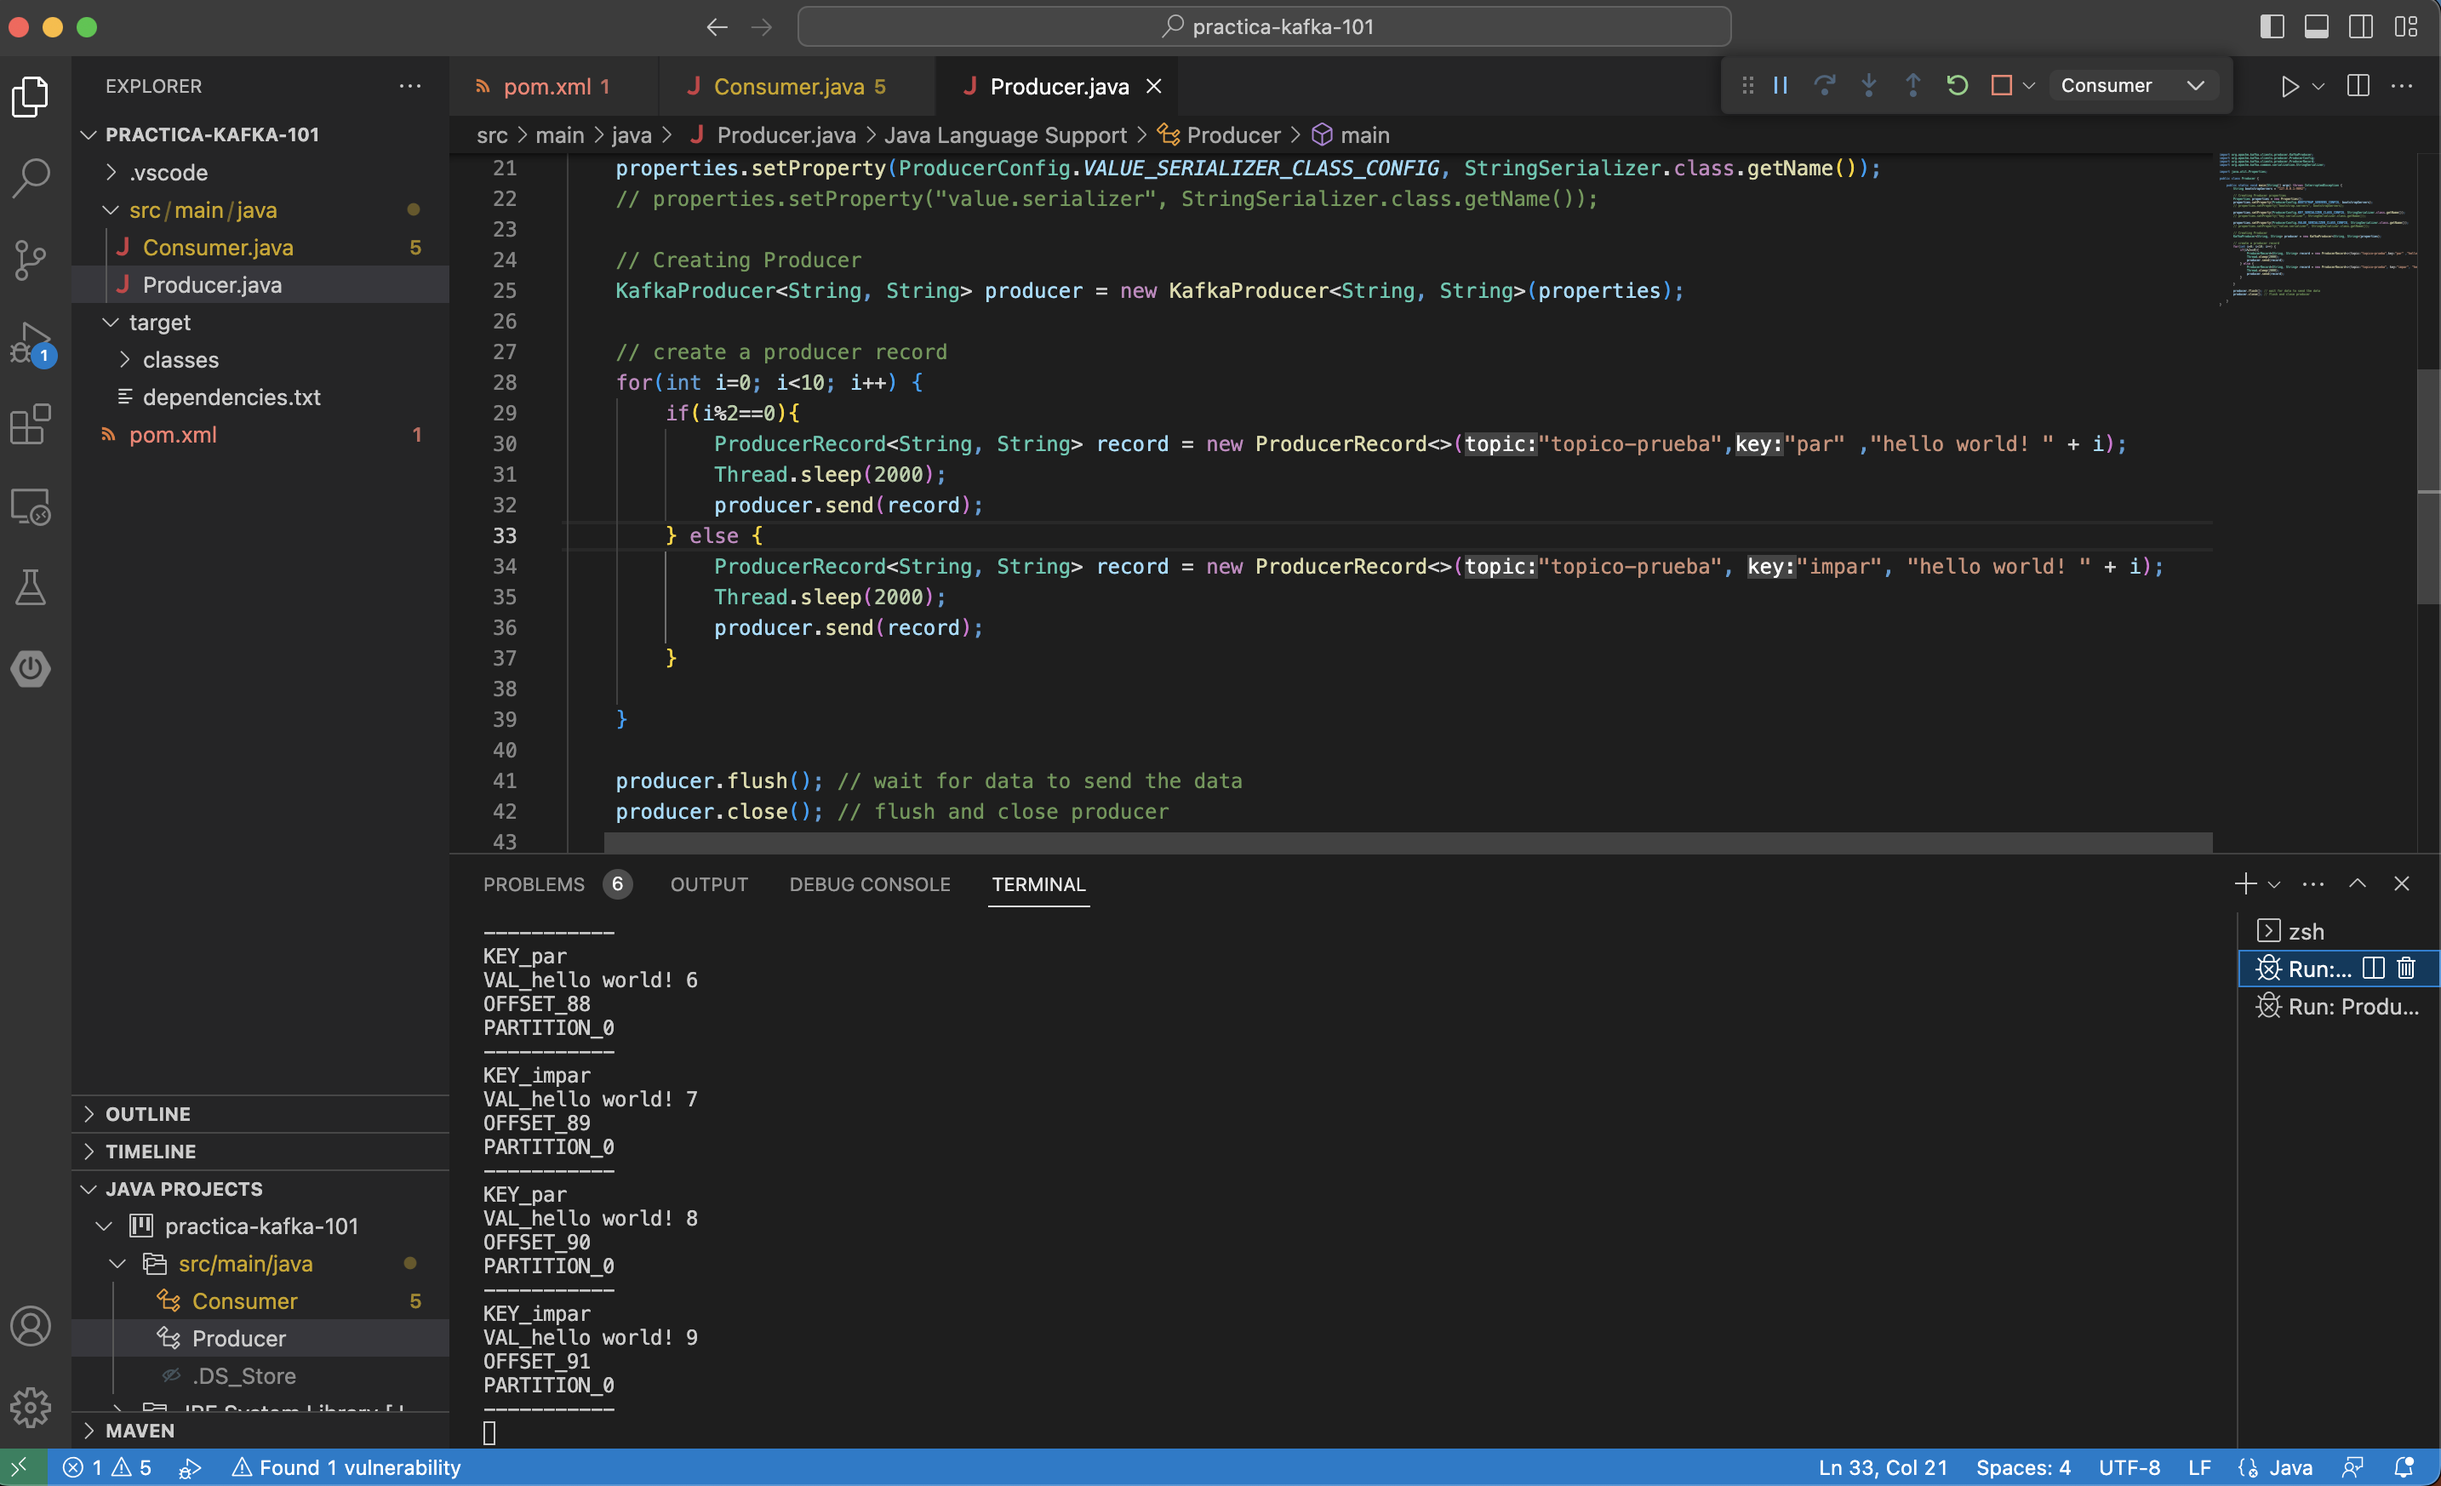
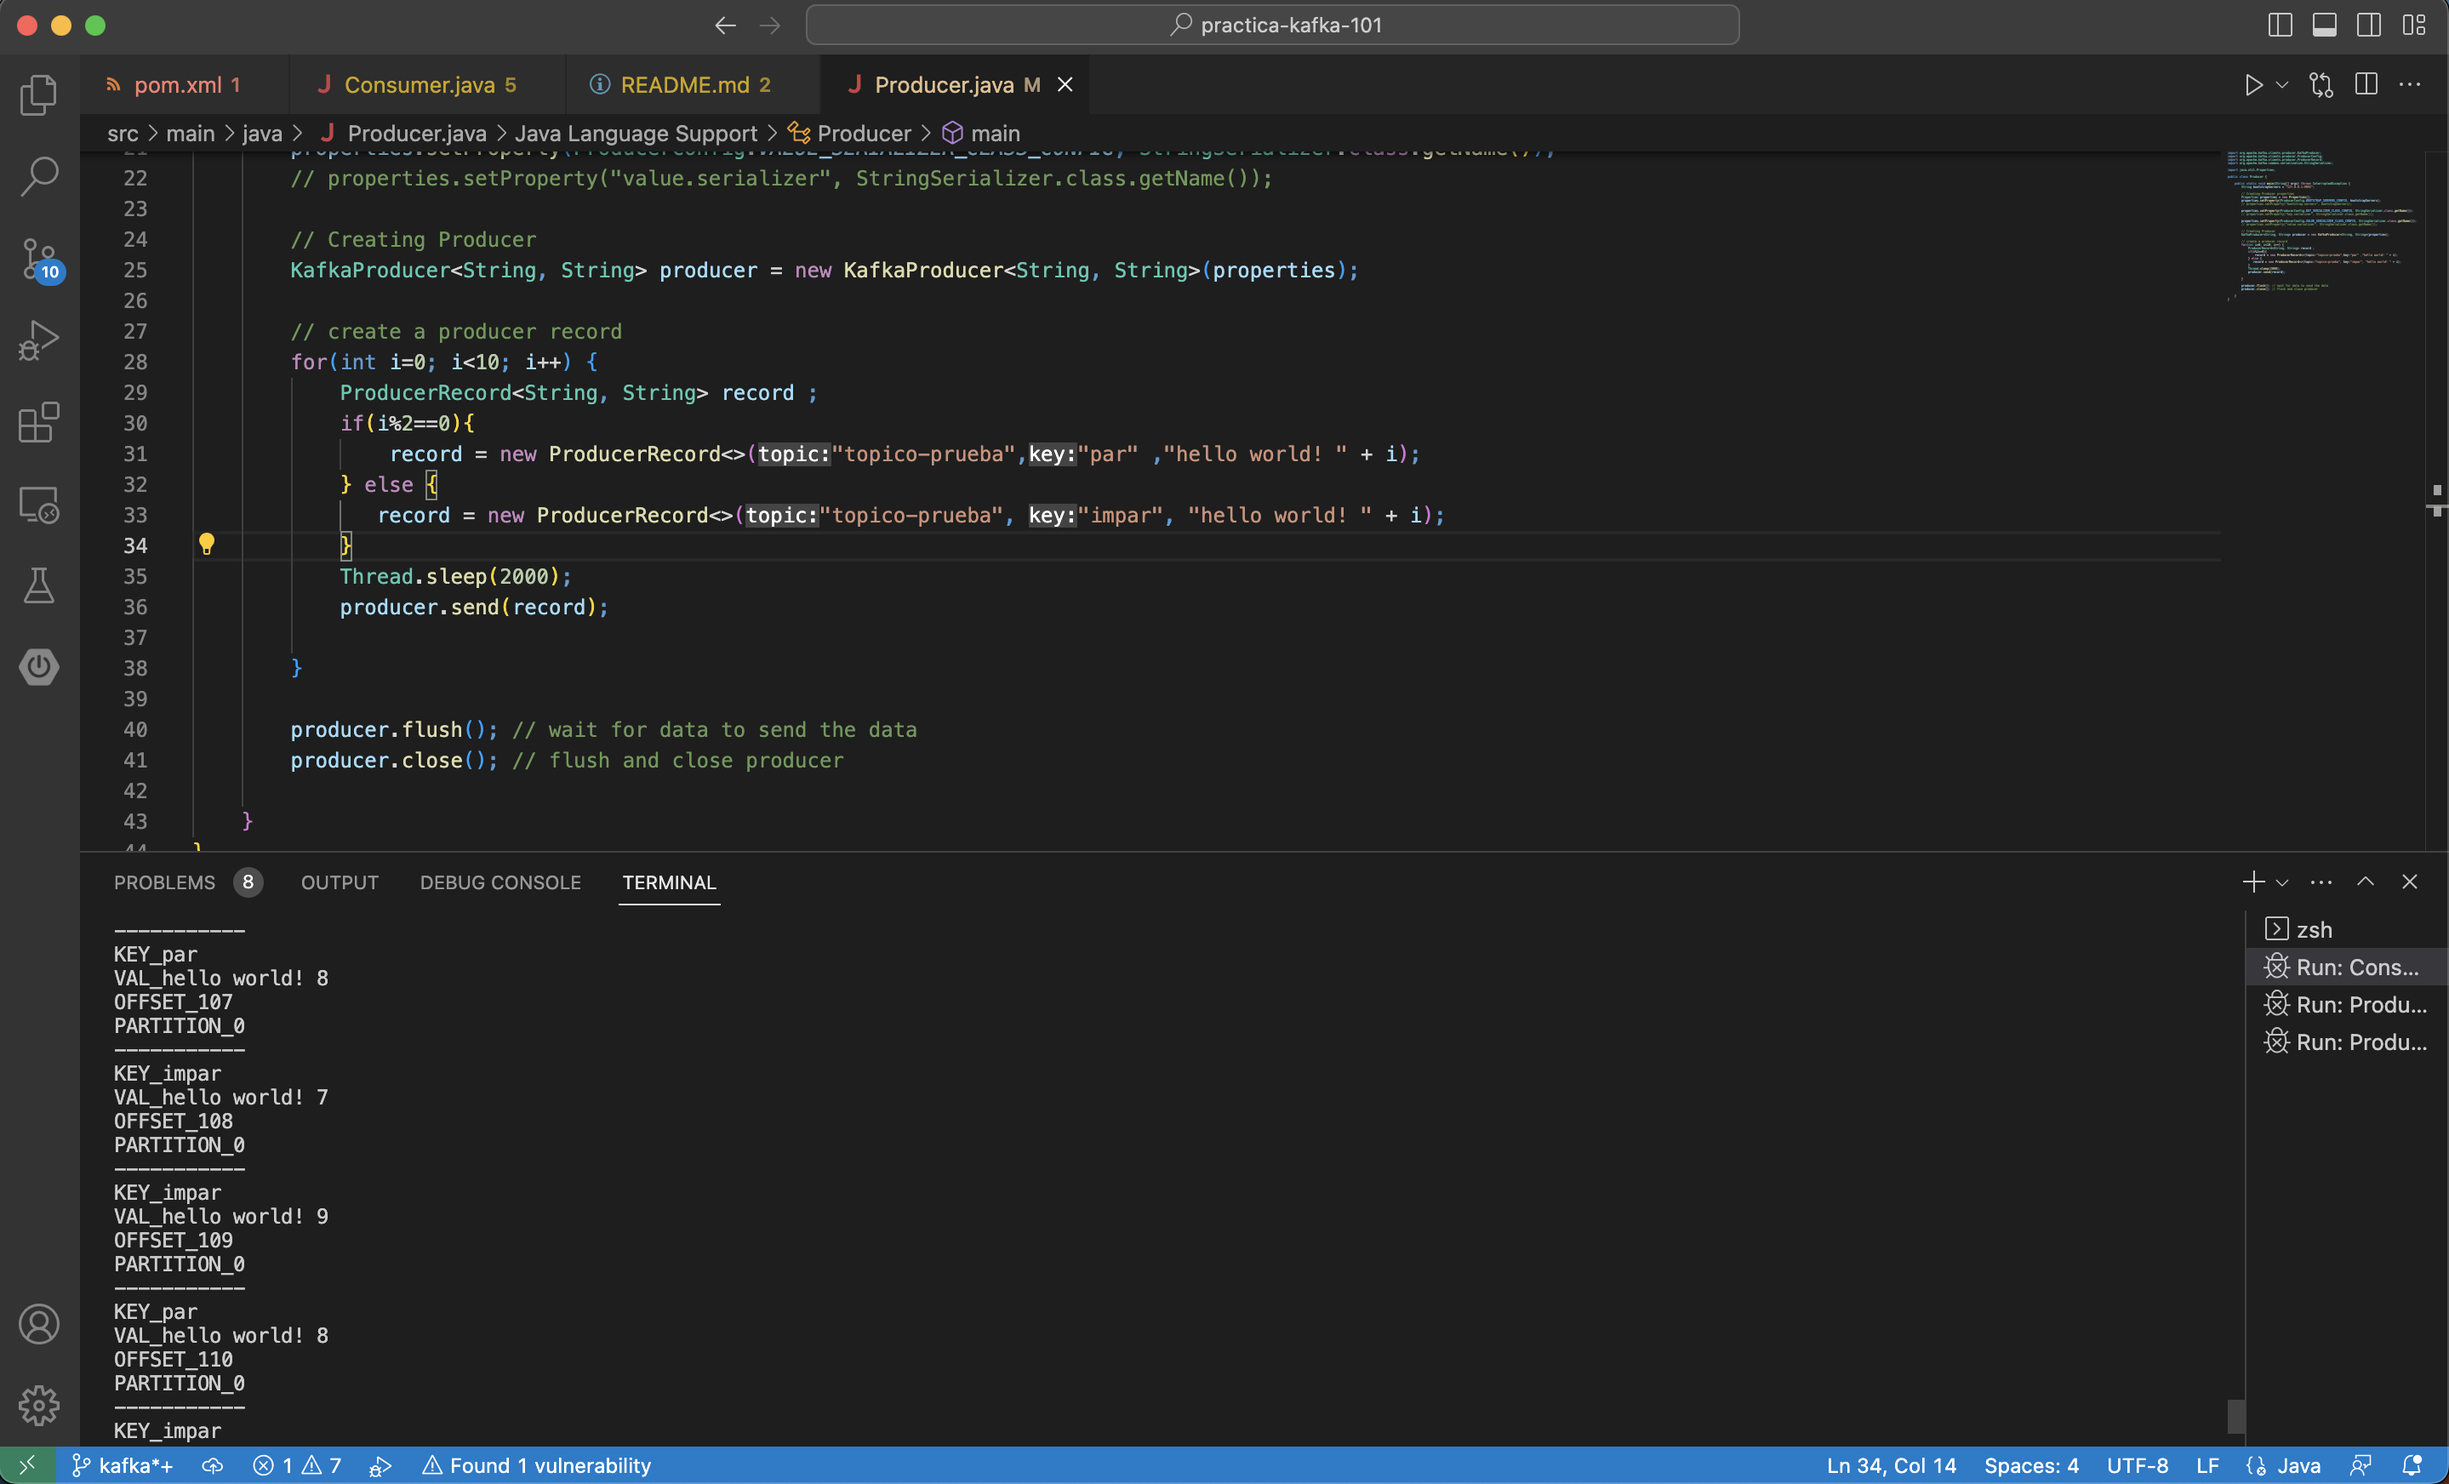
actualizacion practica

diff --git a/src/main/java/Producer.java b/src/main/java/Producer.java
@@ -26,15 +26,14 @@ public class Producer {
 
         // create a producer record
         for(int i=0; i<10; i++) {
+            ProducerRecord<String, String> record ;
             if(i%2==0){
-                ProducerRecord<String, String> record = new ProducerRecord<>("topico-prueba","par" ,"hello world! " + i);
-                Thread.sleep(2000);
-                producer.send(record);
+                record = new ProducerRecord<>("topico-prueba","par" ,"hello world! " + i);
             } else {
-                ProducerRecord<String, String> record = new ProducerRecord<>("topico-prueba", "impar", "hello world! " + i);
-                Thread.sleep(2000);
-                producer.send(record);
+               record = new ProducerRecord<>("topico-prueba", "impar", "hello world! " + i);
             }
+            Thread.sleep(2000);
+            producer.send(record);
             
         }
 
